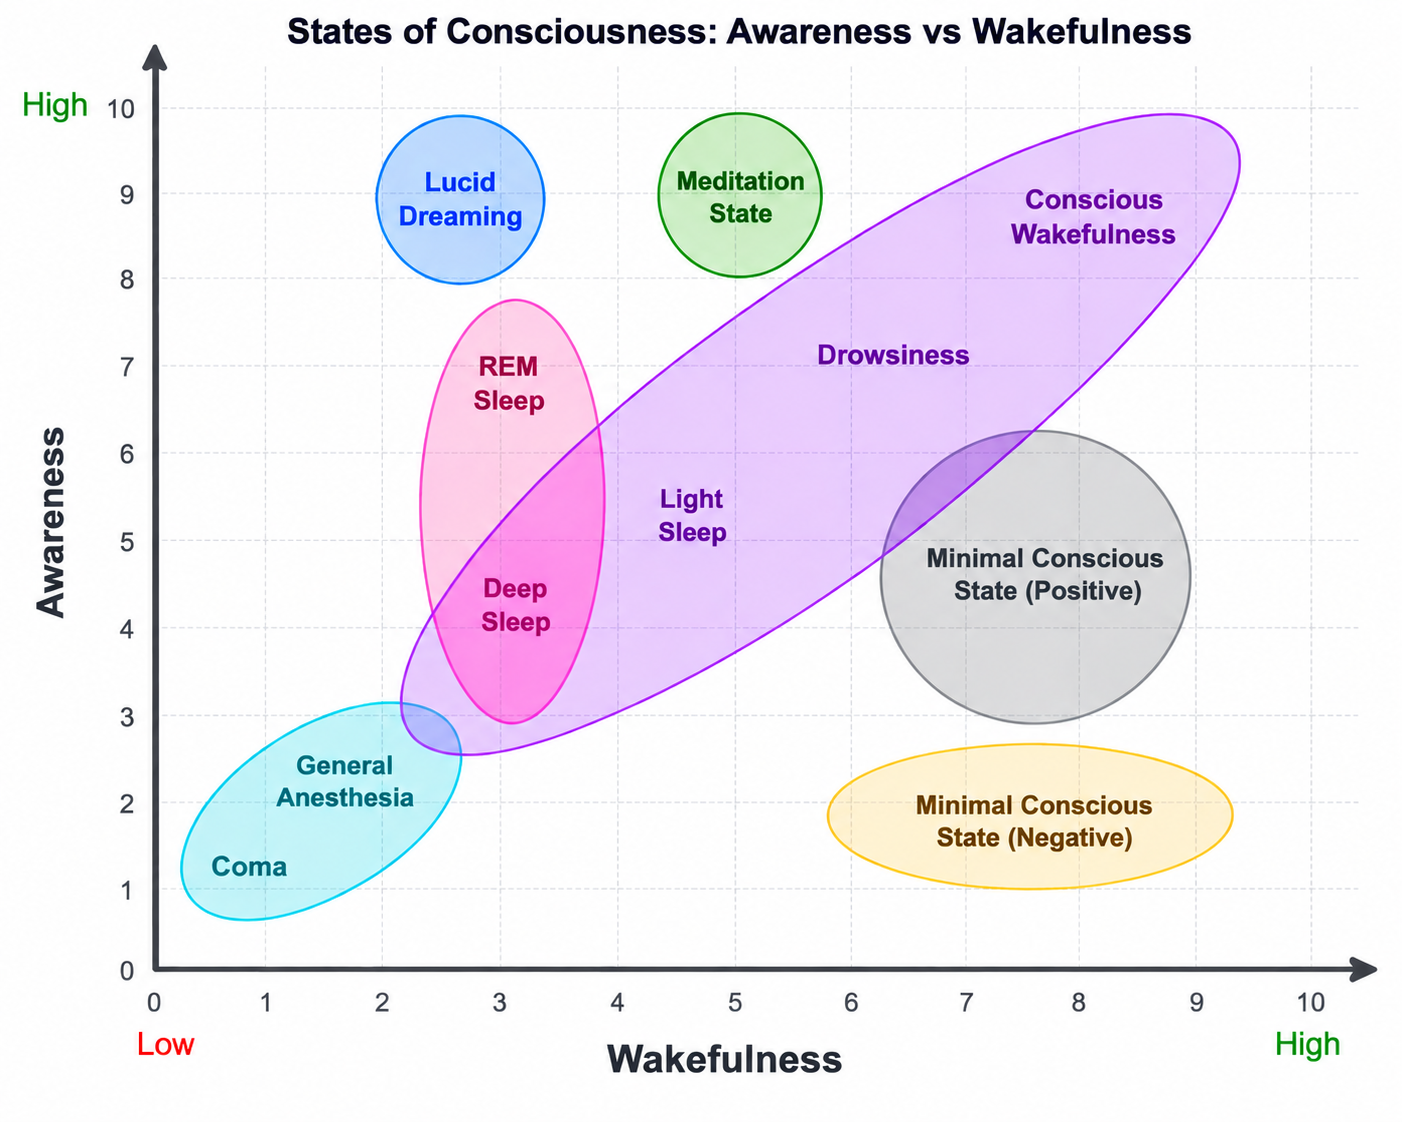
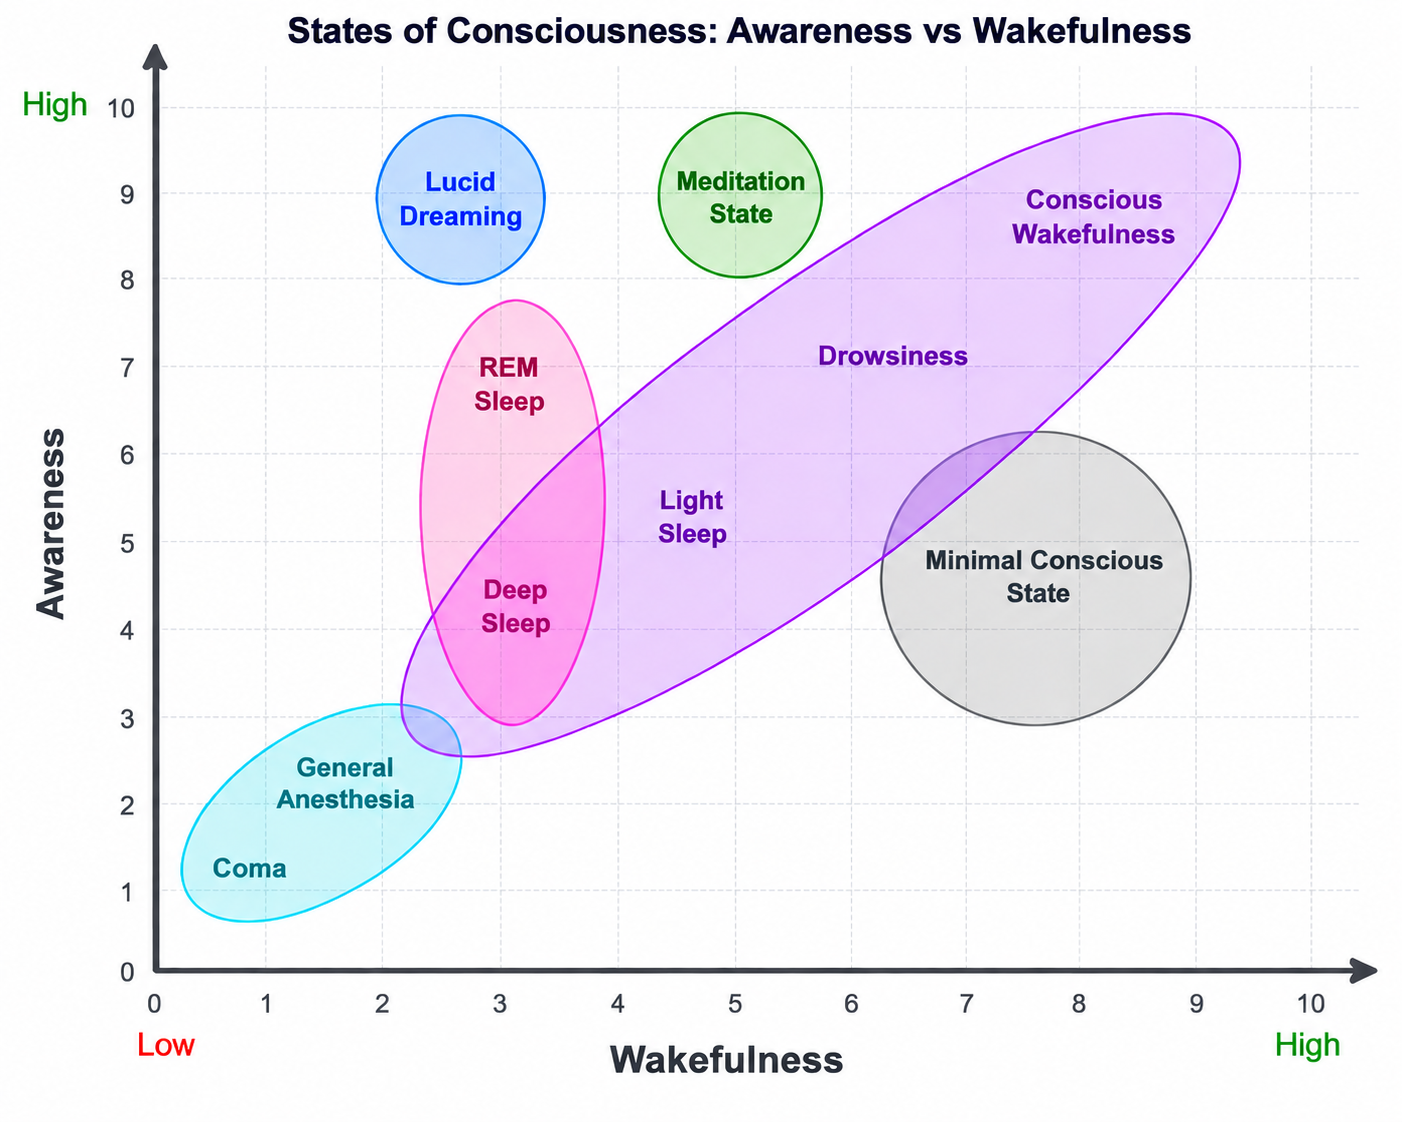
Fit every screen to the viewport — no scrolling in fullscreen
The master font scale (clamp up to 34px) blew the observe screen's three
columns past the viewport width, so the response panel wrapped below the
Bera stage and the player had to scroll to tick an answer. The title card
also overflowed on smaller displays.

- Lower the master scale to clamp(14px, 0.95vw, 22px).
- Observe: keep tools | stage | response side-by-side (flex-wrap:nowrap),
  tighten column widths, shrink the question box, and center the block
  vertically so it uses the empty space instead of hugging the top.
- Title: smaller hero image, card padding, heading and lead text.
- Stack the observe columns only below 58rem, where width truly runs out.
- Roll in the updated awareness/wakefulness diagram asset.

diff --git a/index.html b/index.html
@@ -20,7 +20,7 @@
 }
 *{box-sizing:border-box; -webkit-tap-highlight-color:transparent;}
 html,body{height:100%;}
-html{ font-size:clamp(19px, 1.28vw, 34px); }   /* everything scales from here */
+html{ font-size:clamp(14px, 0.95vw, 22px); }   /* everything scales from here */
 body{
   margin:0; overflow:hidden; color:var(--text); font-family:var(--font-body); user-select:none; font-size:1rem;
   background:
@@ -46,7 +46,7 @@ h1,h2,h3{font-family:var(--font-display); margin:0;}
 .icon-btn:hover{background:#6b4a2c26;}
 
 /* ---- screens ---- */
-.screen{position:fixed; inset:0; display:none; padding:clamp(3.4rem,7vh,5.5rem) clamp(1rem,4vw,4rem) clamp(1rem,3vh,3rem); overflow-y:auto; overflow-x:hidden;}
+.screen{position:fixed; inset:0; display:none; padding:clamp(3rem,5.5vh,4.2rem) clamp(1rem,3vw,3rem) clamp(.8rem,2vh,1.6rem); overflow-y:auto; overflow-x:hidden;}
 .screen.on{display:flex;}
 .btn{
   font-family:var(--font-display); font-weight:700; font-size:1.05rem; color:#fff;
@@ -61,7 +61,7 @@ h1,h2,h3{font-family:var(--font-display); margin:0;}
 
 /* ---- den window (Bera stage) ---- */
 .den-window{
-  position:relative; width:min(56vh,44vw,30rem); aspect-ratio:1/1; border-radius:1.6rem; overflow:hidden; flex:0 0 auto;
+  position:relative; width:min(52vh,36vw,25rem); aspect-ratio:1/1; border-radius:1.6rem; overflow:hidden; flex:0 0 auto;
   background:radial-gradient(circle at 32% 26%,#fff2ce 0%,#fbd888 32%,#edb15c 62%,#c98c45 100%);
   box-shadow:0 0 0 8px var(--frame),0 0 0 11px #fff6df70,0 0 0 12px #00000030,0 20px 44px -14px #4a2f1260;
 }
@@ -93,11 +93,11 @@ h1,h2,h3{font-family:var(--font-display); margin:0;}
 
 /* ===================== TITLE ===================== */
 #scr-title{align-items:center; justify-content:center;}
-#scr-title .card{max-width:min(60rem,92vw); text-align:center; background:var(--card); border:1px solid var(--card-line); border-radius:1.6rem; padding:1.6rem 1.8rem 1.9rem; box-shadow:0 1.4rem 3rem -1.4rem #6b4a2c55;}
-#scr-title .hero{width:min(22rem,52vw); border-radius:1.1rem; margin:.2rem auto .8rem; display:block; box-shadow:0 .7rem 1.5rem -.7rem #6b4a2c66;}
-#scr-title h2{font-size:2.5rem; color:var(--amber-deep);}
-#scr-title p.lead{font-size:1.12rem; line-height:1.6; color:var(--text); max-width:40rem; margin:.7rem auto .4rem;}
-#scr-title p.by{font-size:.85rem; color:var(--text-dim); margin:.1rem 0 1.1rem;}
+#scr-title .card{max-width:min(46rem,88vw); text-align:center; background:var(--card); border:1px solid var(--card-line); border-radius:1.6rem; padding:1.2rem 1.6rem 1.4rem; box-shadow:0 1.4rem 3rem -1.4rem #6b4a2c55;}
+#scr-title .hero{width:min(15rem,34vw,26vh); border-radius:1.1rem; margin:.1rem auto .6rem; display:block; box-shadow:0 .7rem 1.5rem -.7rem #6b4a2c66;}
+#scr-title h2{font-size:2rem; color:var(--amber-deep);}
+#scr-title p.lead{font-size:1rem; line-height:1.55; color:var(--text); max-width:34rem; margin:.55rem auto .3rem;}
+#scr-title p.by{font-size:.82rem; color:var(--text-dim); margin:.1rem 0 .9rem;}
 
 /* ===================== SELECT ===================== */
 #scr-select{align-items:center; justify-content:center;}
@@ -124,28 +124,28 @@ h1,h2,h3{font-family:var(--font-display); margin:0;}
 #scr-select .sub{width:100%; text-align:center; color:var(--text-dim); font-size:.95rem; margin-bottom:1.4rem;}
 
 /* ===================== OBSERVE ===================== */
-#scr-observe{flex-direction:column; align-items:center;}
+#scr-observe{flex-direction:column; align-items:center; justify-content:center;}
 #obs-head{display:flex; gap:.8rem; align-items:baseline; margin-bottom:.4rem;}
 #obs-name{font-family:var(--font-display); font-weight:800; font-size:1.5rem; color:var(--amber-deep);}
 #obs-progress{font-family:var(--font-mono); font-size:.8rem; color:var(--text-dim);}
-#obs-instruction{max-width:min(58rem,94vw); text-align:center; font-size:.98rem; line-height:1.45; color:var(--text-dim); margin:0 0 1.1rem;
-  background:#fffdf4; border:1px solid var(--card-line); border-radius:.8rem; padding:.6em 1em;}
+#obs-instruction{max-width:min(52rem,94vw); text-align:center; font-size:.92rem; line-height:1.4; color:var(--text-dim); margin:0 0 .7rem;
+  background:#fffdf4; border:1px solid var(--card-line); border-radius:.8rem; padding:.5em 1em;}
 #obs-instruction b{color:var(--amber-deep);}
-#obs-body{display:flex; gap:2rem; align-items:flex-start; flex-wrap:wrap; justify-content:center; max-width:min(82rem,96vw); width:100%;}
-#obs-tools{display:flex; flex-direction:column; gap:.55rem; width:15.5rem; flex:0 0 auto;}
-.tool-btn{display:flex; align-items:center; gap:.6rem; text-align:left; padding:.7em .8em; border-radius:.8rem; border:1.5px solid #23424e;
-  background:linear-gradient(180deg,#233c47,#1b2f38); color:var(--cream); font-size:1rem; font-weight:600; position:relative;}
-.tool-btn .te{font-size:1.2rem;}
+#obs-body{display:flex; gap:1.4rem; align-items:flex-start; flex-wrap:nowrap; justify-content:center; max-width:min(72rem,97vw); width:100%;}
+#obs-tools{display:flex; flex-direction:column; gap:.45rem; width:12.5rem; flex:0 0 auto;}
+.tool-btn{display:flex; align-items:center; gap:.5rem; text-align:left; padding:.55em .7em; border-radius:.8rem; border:1.5px solid #23424e;
+  background:linear-gradient(180deg,#233c47,#1b2f38); color:var(--cream); font-size:.92rem; font-weight:600; position:relative;}
+.tool-btn .te{font-size:1.1rem;}
 .tool-btn .tl{flex:1; line-height:1.2;}
 .tool-btn .tc{opacity:0; color:var(--sage); font-weight:800;}
 .tool-btn.done{border-color:var(--sage-ink); background:linear-gradient(180deg,#22443a,#1b332c);}
 .tool-btn.done .tc{opacity:1;}
 .tool-btn:hover{filter:brightness(1.1);}
 #obs-stage{flex:0 0 auto;}
-#obs-right{flex:1 1 22rem; min-width:20rem; max-width:33rem; background:var(--card); border:1px solid var(--card-line); border-radius:1.3rem; padding:1.4rem 1.6rem; box-shadow:0 1rem 2.4rem -1.3rem #6b4a2c44;}
-#obs-q{font-family:var(--font-display); font-weight:700; font-size:1.4rem; line-height:1.3; color:var(--text); min-height:2.4em;}
-#obs-opts{display:flex; flex-direction:column; gap:.6rem; margin-top:1rem;}
-.opt-btn{text-align:left; padding:.75em 1em; border-radius:.8rem; border:2px solid var(--card-line); background:#fff; color:var(--text); font-size:1.08rem; line-height:1.35;}
+#obs-right{flex:0 1 24rem; min-width:19rem; max-width:26rem; background:var(--card); border:1px solid var(--card-line); border-radius:1.3rem; padding:1.1rem 1.3rem; box-shadow:0 1rem 2.4rem -1.3rem #6b4a2c44;}
+#obs-q{font-family:var(--font-display); font-weight:700; font-size:1.15rem; line-height:1.3; color:var(--text); min-height:1.4em;}
+#obs-opts{display:flex; flex-direction:column; gap:.5rem; margin-top:.8rem;}
+.opt-btn{text-align:left; padding:.6em .9em; border-radius:.8rem; border:2px solid var(--card-line); background:#fff; color:var(--text); font-size:1rem; line-height:1.3;}
 .opt-btn:hover:not(:disabled){border-color:var(--amber-deep);}
 .opt-btn:disabled{cursor:default;}
 .opt-btn.chosen-ok{border-color:var(--sage-ink); background:#8ac4a824;}
@@ -213,8 +213,10 @@ h1,h2,h3{font-family:var(--font-display); margin:0;}
 #popup-title{font-family:var(--font-display); font-weight:800; font-size:1.5rem; color:var(--coral-deep); margin:.3rem 0 .2rem;}
 #popup-msg{font-size:1.08rem; line-height:1.5; color:var(--text); margin:.4rem 0 1.2rem;}
 
-@media (max-width:52rem){
+@media (max-width:58rem){
+  #obs-body{flex-wrap:wrap;}
   #obs-tools{flex-direction:row; flex-wrap:wrap; width:100%;} .tool-btn{flex:1 1 45%;}
+  #obs-right{flex:1 1 100%; max-width:none;}
 }
 </style>
 </head>
